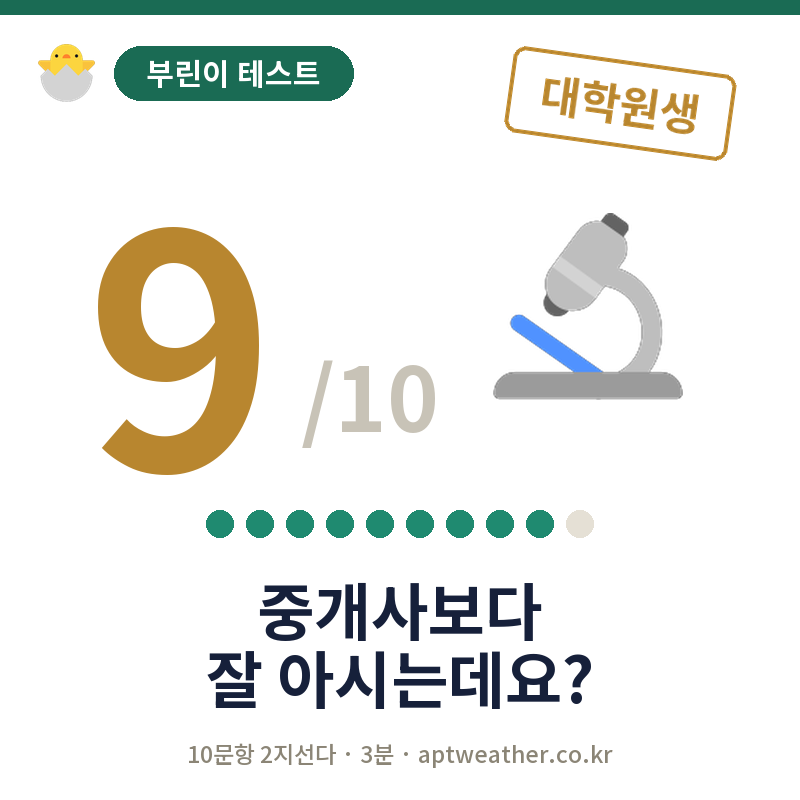
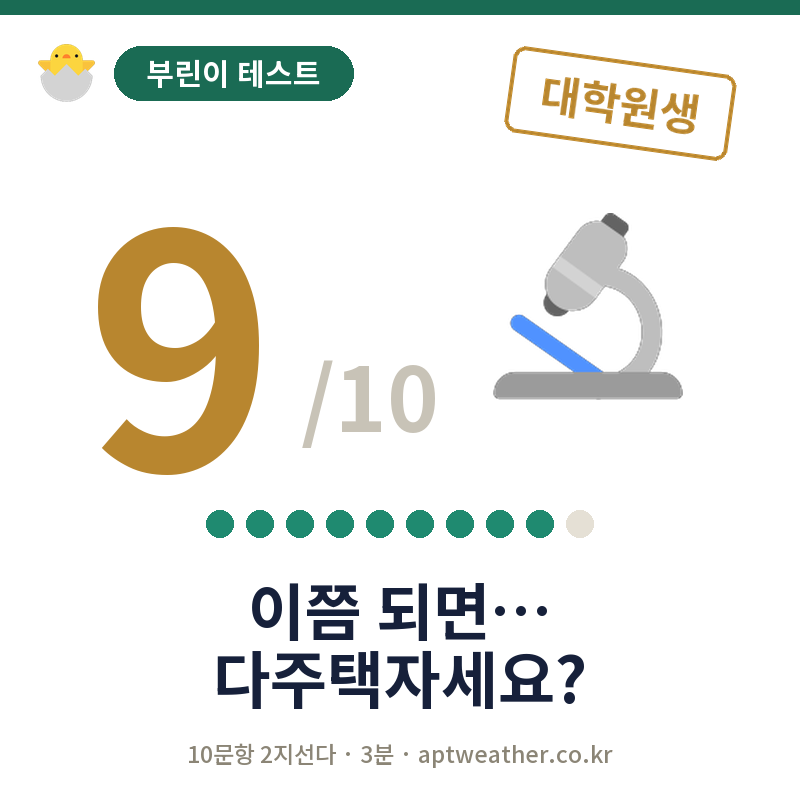
부린이 레벨 호칭 정리: 중학생부터 '부린이' 뗌, 대학생부터 졸업 메타포
- LV6 중학생 → '부린이 티를 벗는 중학생' (도발: 임장은 이제 다녀보셨나요?)
- LV7 고등학생 → '실전을 앞둔 고등학생'
- LV8 대학생 → '부린이 졸업, 어엿한 성인 실수요자'
- LV9 대학원생 → '논문까지 쓰는 부동산 대학원생'
  도발을 '중개사보다 잘 아시는데요?' → '이쯤 되면… 다주택자세요?'
- 카드 6·9번 문구 재생성, 생성기에 도발 문구 좌우 여백 assert 추가

Changed region(s): [[0.25, 0.7188, 0.75, 0.9062]]

diff --git a/index.html b/index.html
@@ -1355,18 +1355,18 @@ const BLV=[
   {lv:'LV5',emoji:'\u{270F}\u{FE0F}',g:'초등학생 부린이',
    d:'용어는 외웠지만 실전은 아직. 계약서 앞에선 아직 손이 떨릴 겁니다.',
    taunt:'용어는 외웠는데 실전은 아직이에요'},
-  {lv:'LV6',emoji:'\u{1F4D0}',g:'중학생 부린이',
+  {lv:'LV6',emoji:'\u{1F4D0}',g:'부린이 티를 벗는 중학생',
    d:'발품은 파는데 제도에서 막히는 단계. 틀린 문항 해설을 한 번 더 읽어보세요.',
-   taunt:'임장은 다녀봤니, 부린이?'},
-  {lv:'LV7',emoji:'\u{1F4D7}',g:'고등학생 부린이',
+   taunt:'임장은 이제 다녀보셨나요?'},
+  {lv:'LV7',emoji:'\u{1F4D7}',g:'실전을 앞둔 고등학생',
    d:'기본기는 탄탄합니다. 헷갈린 한두 개 제도만 챙기면 졸업이 보입니다.',
    taunt:'제도는 다 아시네요. 이제 실전만 남았어요'},
-  {lv:'LV8',emoji:'\u{1F4DA}',g:'대학생 부린이',
+  {lv:'LV8',emoji:'\u{1F4DA}',g:'부린이 졸업, 어엿한 성인 실수요자',
    d:'대출·세금·임대차를 또렷이 꿰고 있습니다. 계약서 앞에서 안 떨릴 수준.',
    taunt:'계약서 앞에서 안 떨리겠는데요?'},
-  {lv:'LV9',emoji:'\u{1F52C}',g:'대학원생 부린이',
+  {lv:'LV9',emoji:'\u{1F52C}',g:'논문까지 쓰는 부동산 대학원생',
    d:'이쯤 되면 중개사에게 되묻는 쪽입니다. 투자자 테스트로 넘어갈 때입니다.',
-   taunt:'중개사보다 잘 아시는데요?'},
+   taunt:'이쯤 되면… 다주택자세요?'},
   {lv:'LV10',emoji:'\u{1F393}',g:'부동산학 교수님',
    d:'부린이는 무슨 — 강단에 서셔도 됩니다. 이제 투자자 테스트에서 통념을 깨보세요.',
    taunt:'혹시… 부동산학 강의하세요?'}

diff --git a/tools/make_beginner_cards.py b/tools/make_beginner_cards.py
@@ -112,9 +112,11 @@ def make_card(score, level, out_path):
         c = DOT_ON if i < score else DOT_OFF
         d.ellipse([cx-13.5, 524-13.5, cx+13.5, 524+13.5], fill=c)
 
-    # 도발 문구 2줄
+    # 도발 문구 2줄 (좌우 여백 60px 확보 — 넘치면 즉시 실패)
     t_f = noto(62, 'Bold')
     for i, line in enumerate(level['taunt2']):
+        lb = d.textbbox((400, 610 + i*68), line, font=t_f, anchor='mm')
+        assert lb[0] >= 60 and lb[2] <= W-60, 'taunt line overflows: %r (%d..%d)' % (line, lb[0], lb[2])
         d.text((400, 610 + i*68), line, font=t_f, fill=INK, anchor='mm')
 
     # 푸터
@@ -132,10 +134,10 @@ LEVELS = [
     dict(stamp='어린이집', emoji='\U0001F9F8', taunt2=['등기부등본이', '아직 그림책 같죠?']),
     dict(stamp='유치원', emoji='\U0001F392', taunt2=['LTV랑 DSR,', '아직 헷갈리시죠?']),
     dict(stamp='초등학생', emoji='✏️', taunt2=['용어는 외웠는데', '실전은 아직이에요']),
-    dict(stamp='중학생', emoji='\U0001F4D0', taunt2=['임장은 다녀봤니,', '부린이?']),
+    dict(stamp='중학생', emoji='\U0001F4D0', taunt2=['임장은 이제', '다녀보셨나요?']),
     dict(stamp='고등학생', emoji='\U0001F4D7', taunt2=['제도는 다 아시네요', '이제 실전만 남았어요']),
     dict(stamp='대학생', emoji='\U0001F4DA', taunt2=['계약서 앞에서', '안 떨리겠는데요?']),
-    dict(stamp='대학원생', emoji='\U0001F52C', taunt2=['중개사보다', '잘 아시는데요?']),
+    dict(stamp='대학원생', emoji='\U0001F52C', taunt2=['이쯤 되면…', '다주택자세요?']),
     dict(stamp='교수님', emoji='\U0001F393', taunt2=['혹시… 부동산학', '강의하세요?']),
 ]
 